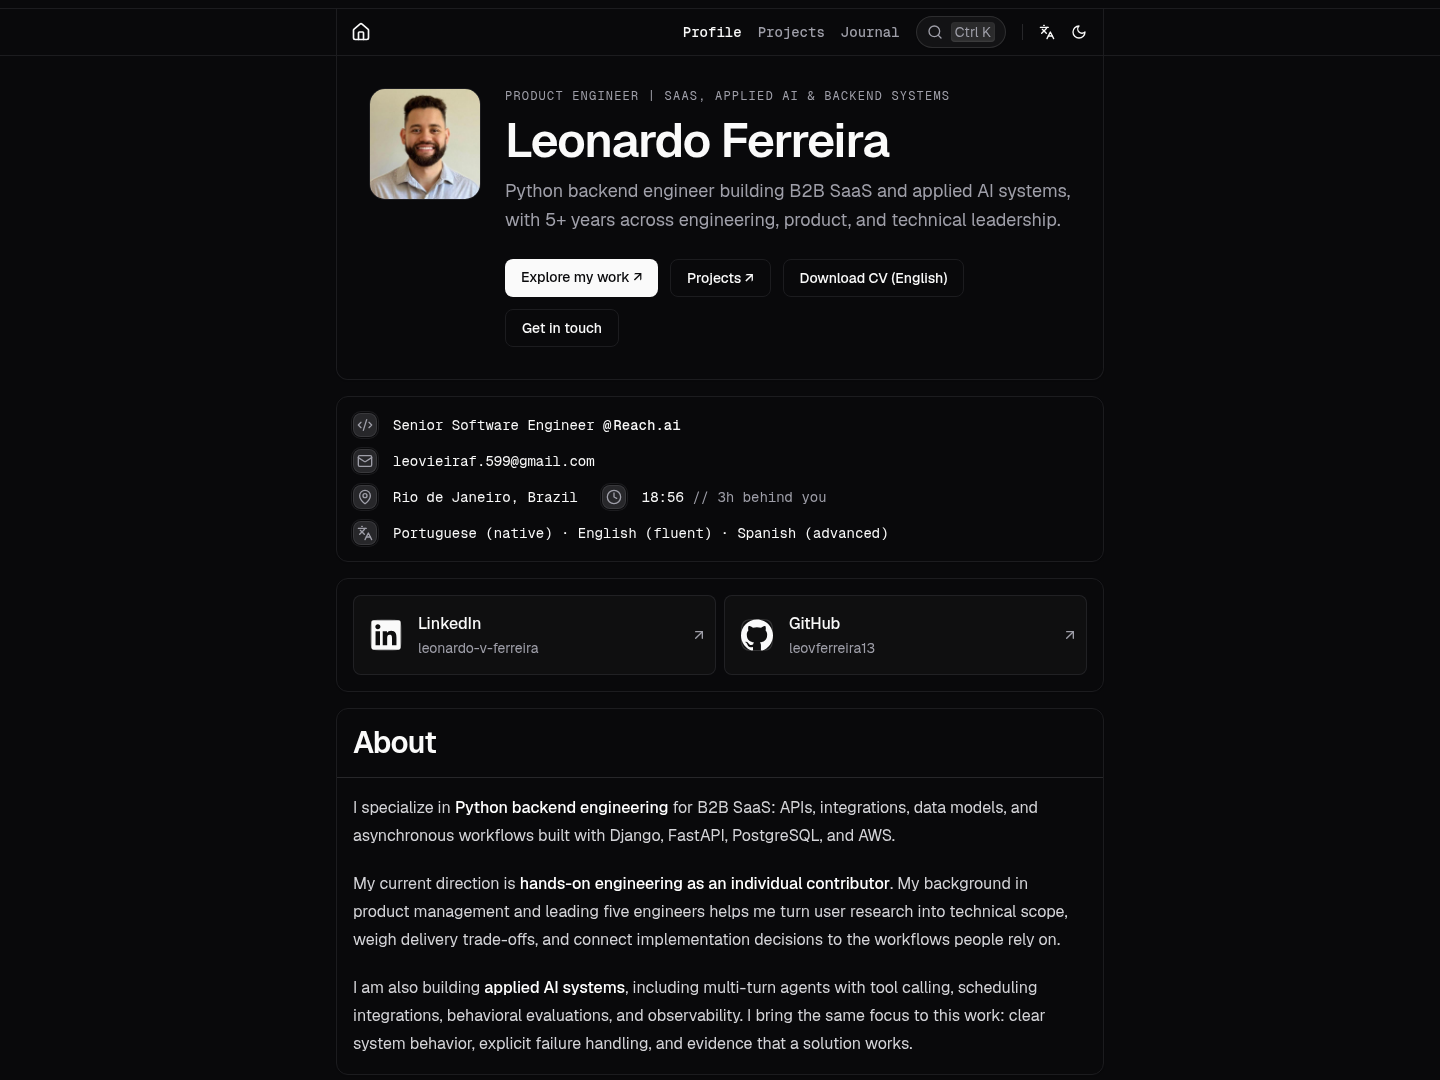
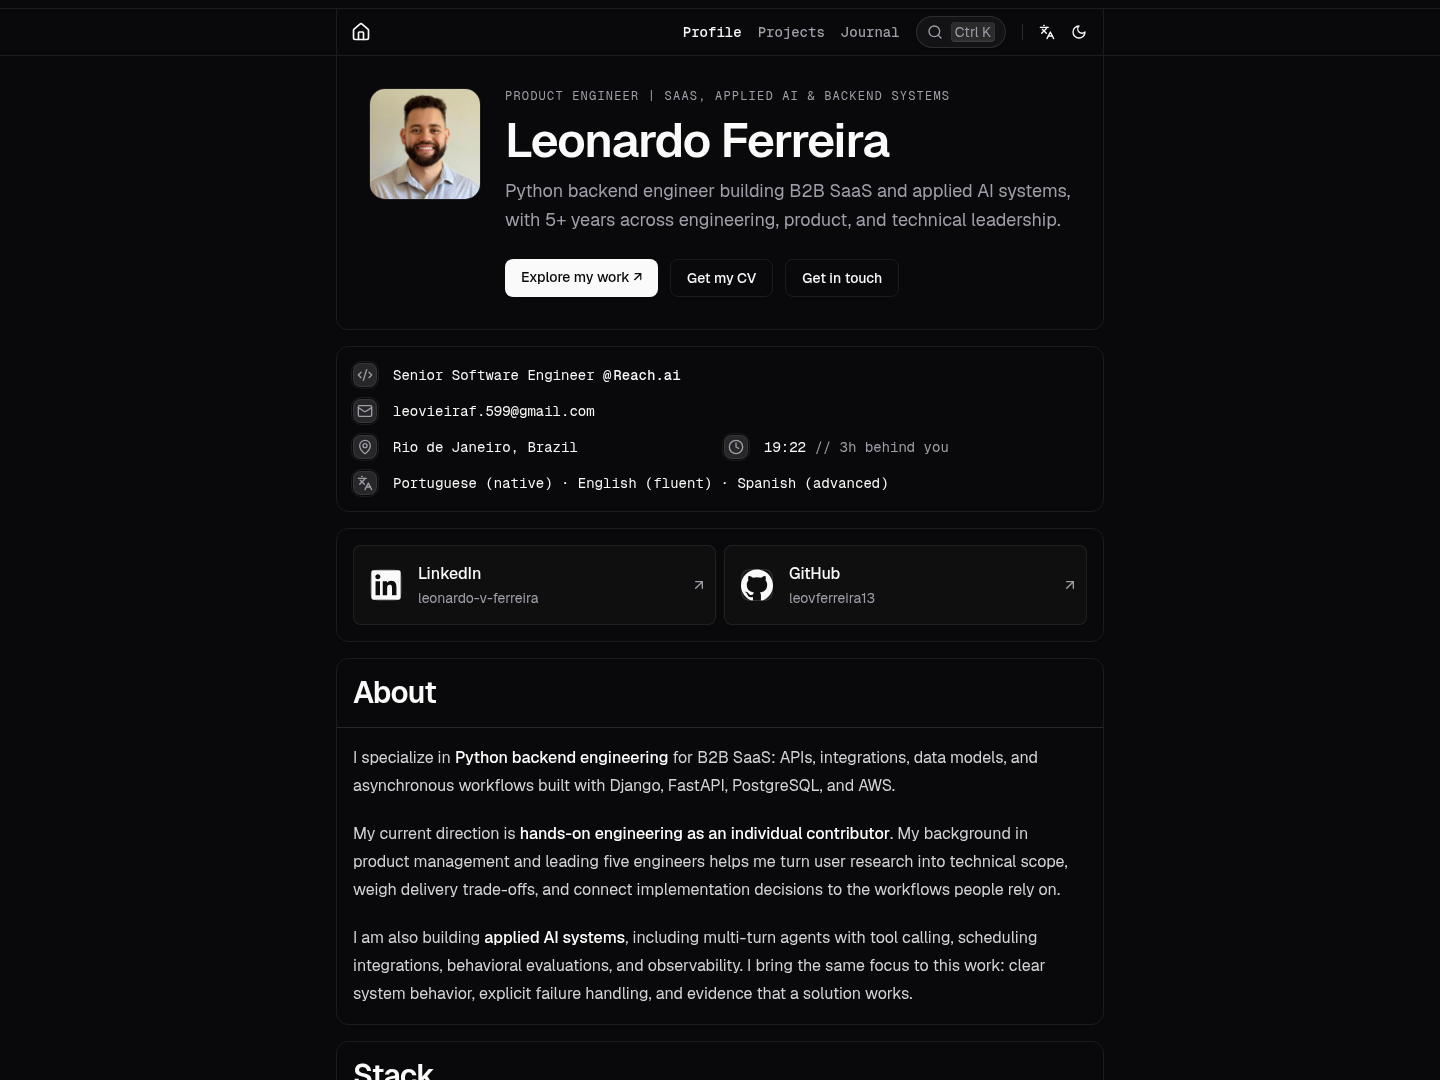
fix(portfolio): refine header layout and expand data experience

Changed region(s): [[0.25, 0.3361, 0.75, 1.0], [0.5625, 0.2444, 0.6562, 0.275], [0.4688, 0.2444, 0.5312, 0.275]]

diff --git a/src/features/portfolio/data/experiences.tsx b/src/features/portfolio/data/experiences.tsx
@@ -97,8 +97,7 @@ export const EXPERIENCES: Experience[] = [
         },
         employmentType: "Internship and full-time",
         icon: <BarChart3Icon />,
-        description: `- Started in a data analytics internship implementing Azure-based ETL and data pipelines, then continued as a full-time data engineer on the same team.
-- Built ETL pipelines and data workflows on Azure Data Factory and Azure Databricks (PySpark), consolidating relational DBs, SFTP, and APIs into a modern data lake architecture.
+        description: `- Built ETL pipelines and data workflows on Azure Data Factory and Azure Databricks (PySpark), consolidating relational DBs, SFTP, and APIs into a modern data lake architecture.
 - Supported digital transformation by reducing infrastructure costs and enabling future BI, analytics, and ML initiatives.
 - Established CI/CD with Azure DevOps and Git for automated deployments and environment consistency.
 - Partnered with business stakeholders to translate requirements into scalable data models and pipelines.`,
@@ -110,7 +109,7 @@ export const EXPERIENCES: Experience[] = [
           "Azure DevOps",
           "Git",
         ],
-        isExpanded: false,
+        isExpanded: true,
       },
     ],
   },

diff --git a/src/features/portfolio/components/profile-header.tsx b/src/features/portfolio/components/profile-header.tsx
@@ -1,12 +1,11 @@
 import Link from "next/link"
 
 import { USER } from "@/features/portfolio/data/user"
-import { localizePath } from "@/i18n/config"
 import { getI18n } from "@/i18n/request"
 import { decodeEmail } from "@/utils/string"
 
 export async function ProfileHeader() {
-  const { locale, dictionary, t } = await getI18n()
+  const { dictionary, t } = await getI18n()
   return (
     <section
       aria-labelledby="profile-title"
@@ -41,15 +40,6 @@ export async function ProfileHeader() {
               className="rounded-lg bg-foreground px-4 py-2 text-background transition-opacity hover:opacity-80"
             >
               {t.exploreWork} <span aria-hidden>↗</span>
-            </Link>
-            <Link
-              href={localizePath("/projects", locale)}
-              target="_blank"
-              rel="noopener noreferrer"
-              className="rounded-lg border border-line px-4 py-2 transition-colors hover:bg-accent"
-              aria-label={`${t.projects} — ${t.newTab}`}
-            >
-              {t.projects} <span aria-hidden>↗</span>
             </Link>
             <a
               href="/resume/leonardo-ferreira-product-engineer-en.pdf"

diff --git a/src/features/portfolio/components/overview/index.tsx b/src/features/portfolio/components/overview/index.tsx
@@ -23,7 +23,10 @@ export async function Overview() {
           />
         ))}
         {USER.email && <EmailItem email={USER.email} />}
-        <div className="flex flex-wrap items-center gap-x-6 gap-y-3">
+        <div
+          data-location-time
+          className="grid grid-cols-1 items-start gap-2 sm:grid-cols-2"
+        >
           <IntroItem>
             <IntroItemIcon>
               <MapPinIcon aria-hidden="true" />
